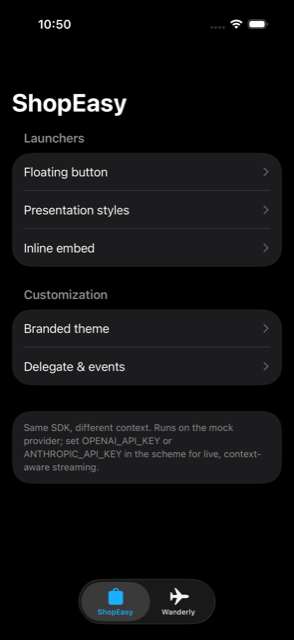
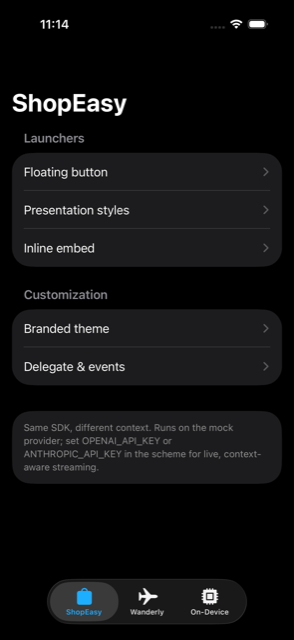
docs: document on-device & custom models; refresh 3-tab screenshot

Changed region(s): [[0.1531, 0.9062, 0.8571, 1.0], [0.1224, 0.0312, 0.2449, 0.0625]]

diff --git a/README.md b/README.md
@@ -270,18 +270,35 @@ A runnable SwiftUI showcase lives in [`Examples/AIChatDemo`](Examples/AIChatDemo
 demonstrates the floating button, sheet/fullscreen/inline presentation, a branded `HostAppTheme`,
 and the lifecycle delegate.
 
-Two tab-bar domains — an **e-commerce** assistant (ShopEasy) and a **travel concierge** (Wanderly)
-— show the same SDK adapting its identity, prompts, knowledge, and brand to any context.
+Three tab-bar domains — an **e-commerce** assistant (ShopEasy), a **travel concierge** (Wanderly),
+and an **on-device** assistant — show the same SDK adapting its identity, prompts, knowledge, and
+brand to any context.
 
-| Showcase home | E-commerce chat | Travel chat | Branded theme |
+| Showcase home (3 domains) | E-commerce chat | Travel chat | Branded theme |
 |---|---|---|---|
-| <img src="Examples/AIChatDemo/Screenshots/01-home.png" width="200" alt="Showcase home with ShopEasy and Wanderly tabs"> | <img src="Examples/AIChatDemo/Screenshots/02-shopeasy-chat.png" width="200" alt="ShopEasy e-commerce chat"> | <img src="Examples/AIChatDemo/Screenshots/03-wanderly-chat.png" width="200" alt="Wanderly travel chat"> | <img src="Examples/AIChatDemo/Screenshots/04-wanderly-branded.png" width="200" alt="Wanderly branded theme"> |
+| <img src="Examples/AIChatDemo/Screenshots/01-home.png" width="200" alt="Showcase home with ShopEasy, Wanderly and On-Device tabs"> | <img src="Examples/AIChatDemo/Screenshots/02-shopeasy-chat.png" width="200" alt="ShopEasy e-commerce chat"> | <img src="Examples/AIChatDemo/Screenshots/03-wanderly-chat.png" width="200" alt="Wanderly travel chat"> | <img src="Examples/AIChatDemo/Screenshots/04-wanderly-branded.png" width="200" alt="Wanderly branded theme"> |
 
 _Captured on iOS 26 Simulator. The chat stays light even with the device in Dark Mode because the theme pins its own color scheme._
 
 It runs on the **mock provider** out of the box — no API key needed. To try live streaming, set
 `OPENAI_API_KEY` or `ANTHROPIC_API_KEY` in the Run scheme's environment
 (**Product ▸ Scheme ▸ Edit Scheme… ▸ Run ▸ Arguments ▸ Environment Variables**).
+
+### On-device & custom models
+
+The SDK is model-agnostic — you can point it at any LLM, including your own fine-tuned model:
+
+- **OpenAI-compatible endpoint (no code):** set `OpenAIConfig.baseURL` + `model` to a server such as
+  Ollama, vLLM, LM Studio, llama.cpp, TGI, Together/Groq/OpenRouter, Azure OpenAI, or a fine-tuned
+  OpenAI model id.
+- **Anything else (`.custom`):** conform to `AIProviderProtocol` and return an
+  `AsyncThrowingStream<String, any Error>` — a bespoke HTTP/SSE API, or an **on-device** model.
+
+The **On-Device** tab is a working `.custom` example: [`OnDeviceModelProvider`](Examples/AIChatDemo/AIChatDemo/Support/OnDeviceModelProvider.swift)
+bridges Apple's **Foundation Models** on-device LLM (no network, no API key). It requires an
+Apple Intelligence–capable device with the feature enabled — on the Simulator or unsupported
+devices the chat shows an availability message. For a custom-*trained* model, load a trained adapter
+via `SystemLanguageModel(adapter:)` and pass it to `LanguageModelSession(model:)`.
 
 ---
 